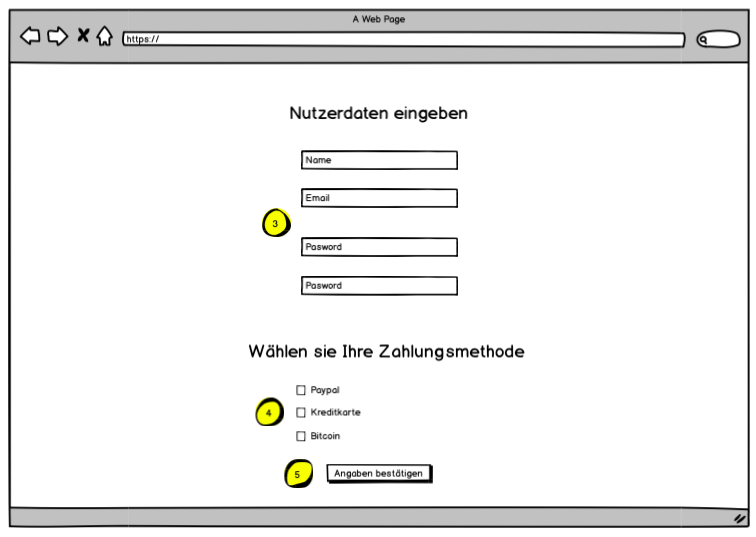
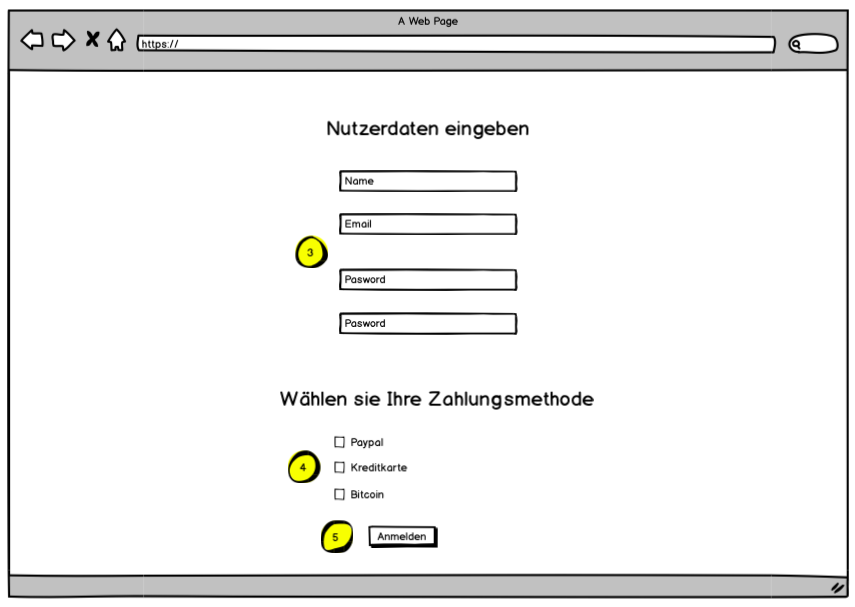
SWAR: Updated Übung-03 and images

diff --git a/SWAR-01/Übung-03.md b/SWAR-01/Übung-03.md
@@ -64,6 +64,46 @@ Kontextdiagram
 
 * Dynamisches Verhalten
 
+  * Nachricht senden
+
+![alt text](https://github.com/SoenkeSobott/SWAR/blob/master/SWAR-01/images/Nachricht01.png "Nachricht01")
+
+* 1 Der Nutzer wählt die Kundenliste aus
+
+![alt text](https://github.com/SoenkeSobott/SWAR/blob/master/SWAR-01/images/Nachricht02.png "Nachricht02")
+
+* 2 Der Nutzer sucht nach dem Kundennamen in der Suchleiste
+* 3 Der Nutzer betätigt den Ändern Button
+
+![alt text](https://github.com/SoenkeSobott/SWAR/blob/master/SWAR-01/images/Nachricht03.png "Nachricht03")
+
+* 4 Der Nutzer verfasst eine Nachricht an den Kunden
+* 5 Der Nutzer sendet die Nachricht ab
+
+![alt text](https://github.com/SoenkeSobott/SWAR/blob/master/SWAR-01/images/Nachricht04.png "Nachricht04")
+
+* 6 Der Nutzer bekommt eine Bestätigung das seine Nachricht versendet ist und 
+klickt wider zur Home Seite
+
+
+* Registrieren
+
+![alt text](https://github.com/SoenkeSobott/SWAR/blob/master/SWAR-01/images/Registrierung01.png "Registrierung01")
+
+* 1 Der Nutzer muss den Nutzungsbedingungen zustimmen
+* 2 Der Nutzer muss den nächsten Schritt einleiten
+
+![alt text](https://github.com/SoenkeSobott/SWAR/blob/master/SWAR-01/images/Registrierung02.png "Registrierung02")
+
+* 3 Der Nutzer muss seine persönlichen Daten eingeben (Name, Mail, Passwort)
+* 4 Der Nutzer wählt eine Zahlungsmethode
+* 5 Der Nutzer meldet sich an
+
+![alt text](https://github.com/SoenkeSobott/SWAR/blob/master/SWAR-01/images/Registrierung03.png "Registrierung03")
+
+* 6 Der Nutzer sieht seine angegebenen Daten und kann diese ändern oder 
+zur Home Seite navigieren
+
 
 
 
